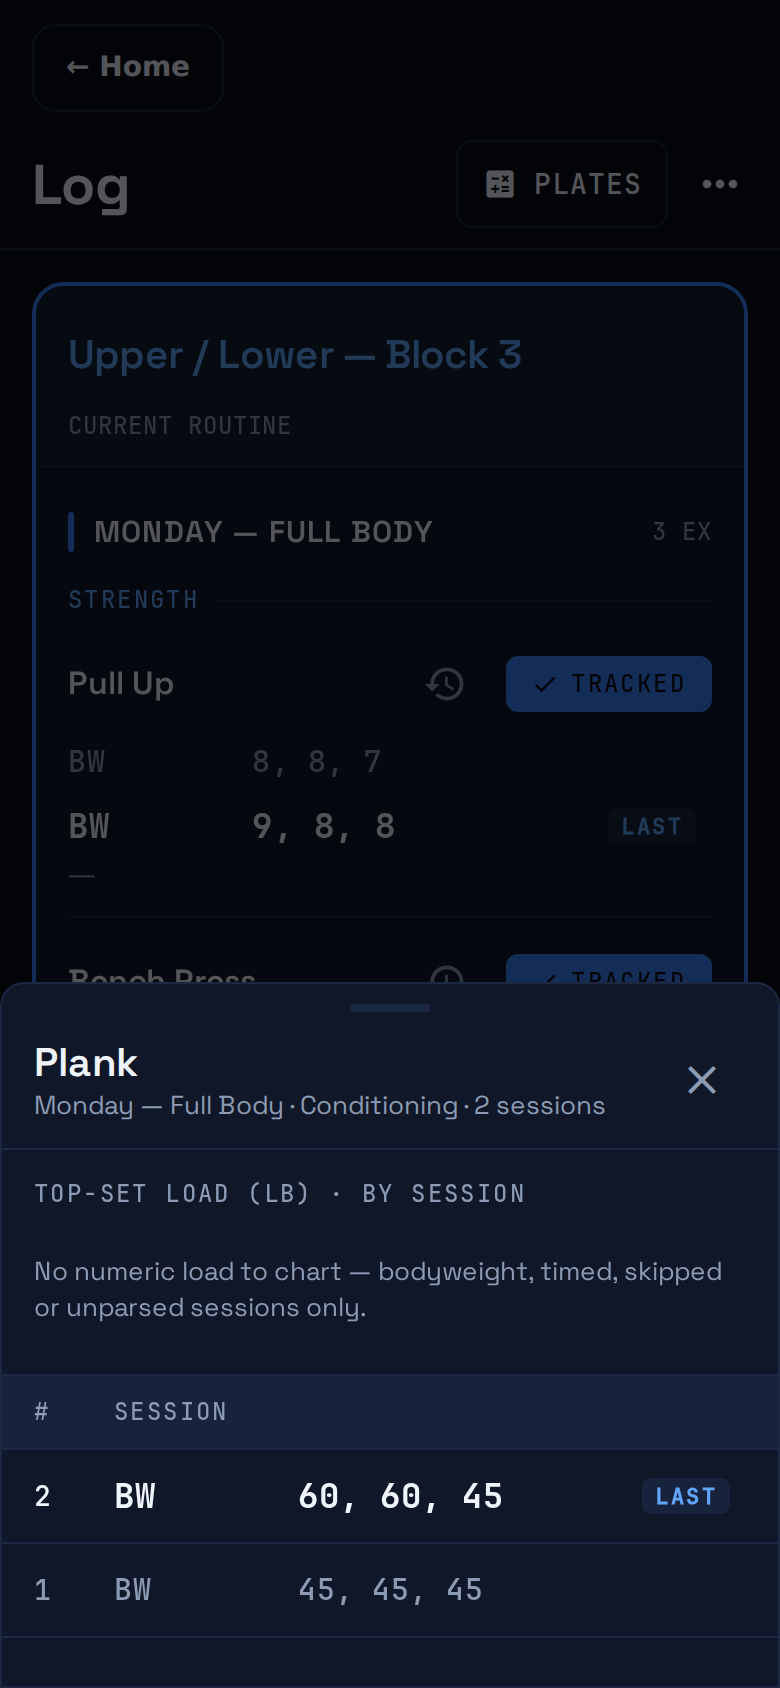
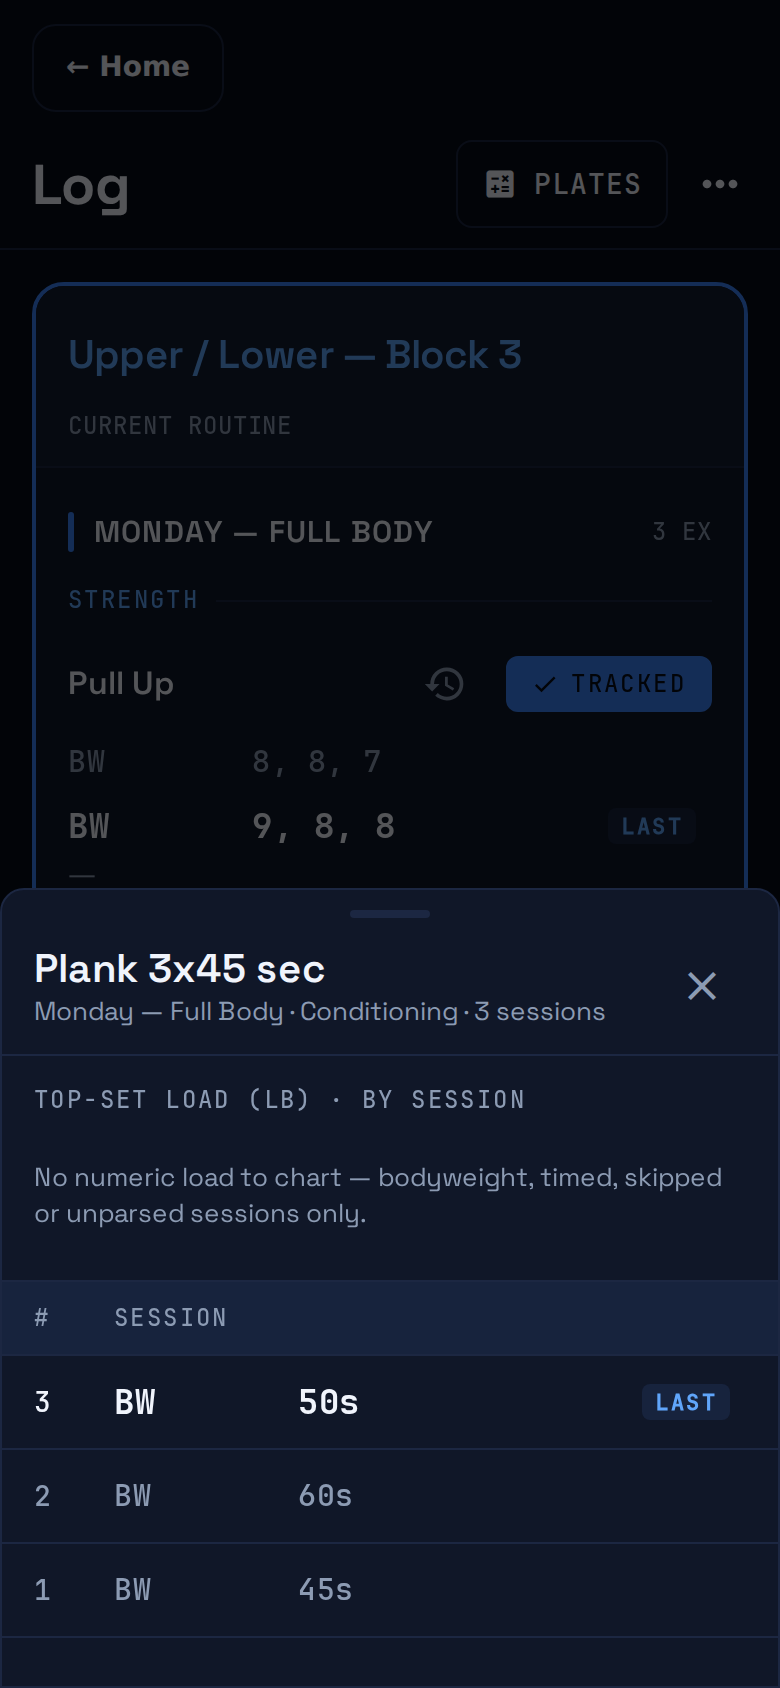
Timed history evidence uses parsed duration sets (#1607)

diff --git a/docs/evidence/app-redesign-v3/r8/README.md b/docs/evidence/app-redesign-v3/r8/README.md
@@ -1,6 +1,6 @@
 # R8 (#1607) visual evidence — Log history sheet and rest-timer surfaces
 
-- **Rendered commits:** panel states (`editor-presets-*`, `editor-safe-area-*`, `editor-short-safe-area-*`, `editor-timer-done-*`, `editor-timer-cancelled-*`) at `e66b911dcb40dd242f2ac5671587313f420baeeb` (vertical fit); other timer/pill states (`editor-toolbar-idle`, `editor-docked-visible`, `editor-scrolled-pill`, `pill-*`, `home-timer-pill-*`) at `42b23561d7d7cd7a1646a6836a82bd8d690b3480` — e66b911 changes only the panel's vertical placement, which those states never open; `history-*` and `log-first-*` at `34c45b58f412ee2aad28ad4ce72ee4e97e38669e` (positional unparsed rows kept). Real app Expo web export, not prototype HTML.
+- **Rendered commits:** panel states (`editor-presets-*`, `editor-safe-area-*`, `editor-short-safe-area-*`, `editor-timer-done-*`, `editor-timer-cancelled-*`) at `e66b911dcb40dd242f2ac5671587313f420baeeb` (vertical fit); other timer/pill states (`editor-toolbar-idle`, `editor-docked-visible`, `editor-scrolled-pill`, `pill-*`, `home-timer-pill-*`) at `42b23561d7d7cd7a1646a6836a82bd8d690b3480` — e66b911 changes only the panel's vertical placement, which those states never open; `history-*` and `log-first-*` at `651d8cdce591bce0068905abe2cfd6e039376415` (timed fixture uses the parser's duration-header syntax). Real app Expo web export, not prototype HTML.
 - **Viewport:** 390×844 @2x via the shared harness (`../capture.cjs`, read-only); issue-local overlays in `fixtures.cjs`.
 - **Themes:** every state in hard-dark and clay-light; Log first screen and Home pill (first affected screens) also in grass-light and clay-dark.
 - **References:** `docs/design/app-redesign-v3/shots/hybrid/` state-log-history-sheet, state-log-editor, state-log-editor-timer, state-home-timer-running (hard-dark).
@@ -24,7 +24,7 @@ cd mobile && EXPO_PUBLIC_SUPABASE_URL=https://mockproj.supabase.co EXPO_PUBLIC_S
 cd .. && KILO_RENDERED_COMMIT=795f739a6d5e20da854a19965ace2a84bd60535f   node docs/evidence/app-redesign-v3/r8/capture.cjs /tmp/kilo-1607-dist-795f /tmp/kilo-review-tools/node_modules
 ```
 
-The runs (full matrix first; `history,log-first` rerun at 34c45b5 and `editor,home,pill` rerun at 42b2356, panel states rerun at e66b911, each with the same command plus that `only` filter) captured all 52 states without a step failure (manifest written to the work dir). Later commits on this branch change only docs/evidence/changelog, so the renders still apply.
+The runs (full matrix first; `history,log-first` rerun at 651d8cd and `editor,home,pill` rerun at 42b2356, panel states rerun at e66b911, each with the same command plus that `only` filter) captured all 52 states without a step failure (manifest written to the work dir). Later commits on this branch change only docs/evidence/changelog, so the renders still apply.
 
 ## Degradation and preserved capabilities
 
